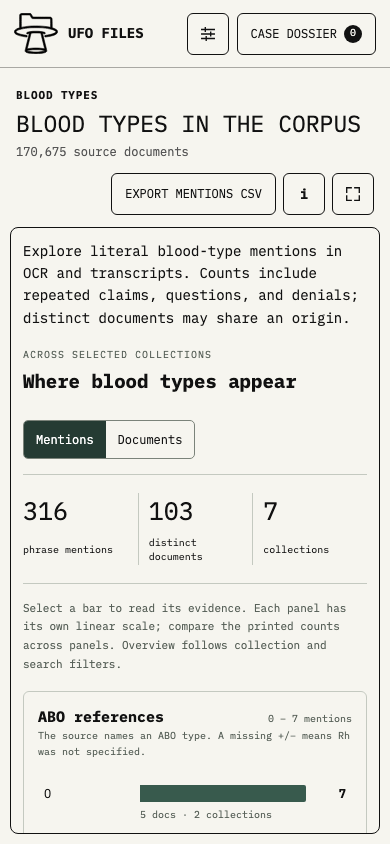
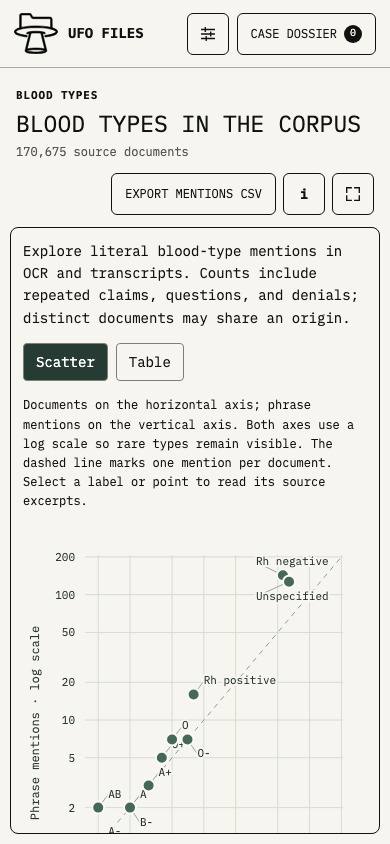
Replace blood type dashboard with scatter and table only

diff --git a/app.js b/app.js
@@ -351,7 +351,7 @@ const DEFAULT = {
   speciesLayout: "lineup", speciesY: "physicalHeight", speciesSize: "documentCount", speciesSpacing: 0, speciesCategory: "all", speciesSearch: "",
   coverageRows: "collection", coverageColumns: "category", coverageMetric: "documentCount", coverageCompare: false,
   coverageACollection: "all", coverageAFrom: "", coverageATo: "", coverageBCollection: "all", coverageBFrom: "", coverageBTo: "",
-  bloodType: "all", bloodSearch: "", bloodMetric: "mentions",
+  bloodType: "all", bloodSearch: "", bloodView: "scatter",
   programStatus: "all", programKind: "all", programSearch: "",
   labelSize: 12, zoom: 1, moonTransitSeconds: 5, solarScale: "local", solarCase: "hill_fish", title: "Mentions by Documents", titleMode: "auto"
 };
@@ -368,7 +368,7 @@ const VIEW_DEFAULTS = {
   signals: { allSources: true, sources: [], labels: "top", labelSize: 12 },
   bars: { aggregation: "source", y: "words", color: "intensity" },
   timeline: { timelineRole: "event", timelineGrouping: true, timelineGroupPeriod: "month", timelineCorrelativeMarkers: true, timelineHistoricalCandidates: false, x: "startDate", y: "mentionRank", size: "eventCount", color: "eventType", categories: ["date"], labels: "top", limit: 500, relationshipLayer: "always", timelineRelevanceCutoff: DEFAULT_TIMELINE_RELEVANCE_CUTOFF, timelineRecencyYear: DEFAULT_TIMELINE_RECENCY_YEAR },
-  blood: { bloodType: "all", bloodSearch: "", bloodMetric: "mentions" },
+  blood: { bloodType: "all", bloodSearch: "", bloodView: "scatter" },
   programs: { programStatus: "all", programKind: "all", programSearch: "", labelSize: 12 },
   matrix: { matrixColumns: "category", matrixNormalize: "rowShare", color: "intensity" },
   coverage: { coverageRows: "collection", coverageColumns: "category", coverageMetric: "documentCount", coverageCompare: false, coverageACollection: "all", coverageAFrom: "", coverageATo: "", coverageBCollection: "all", coverageBFrom: "", coverageBTo: "", allSources: true, sources: [] },
@@ -4342,40 +4342,52 @@ function bloodMentionGroups(observations) {
   return [...groups.values()].sort((a, b) => b.mentions - a.mentions || a.type.localeCompare(b.type));
 }
 
-function bloodVisualData(observations, metric = "mentions") {
-  const value = group => metric === "documents" ? group.documents.size : group.mentions;
-  const groups = bloodMentionGroups(observations).sort((a, b) => value(b) - value(a) || a.type.localeCompare(b.type));
-  const sources = [...new Set(observations.map(item => item.source))].sort();
-  const bySource = new Map(sources.map(source => [source, bloodMentionGroups(observations.filter(item => item.source === source))]));
-  const cells = groups.flatMap(group => sources.map(source => {
-    const entry = bySource.get(source).find(item => item.type === group.type);
-    return { type: group.type, source, value: entry ? value(entry) : 0 };
-  }));
-  return { groups, sources, cells, value };
+function bloodOverviewHTML(observations, config) {
+  const groups = bloodMentionGroups(observations);
+  const table = config.bloodView === "table";
+  return `<section aria-label="Blood type overview"><div class="blood-view-switch" role="group" aria-label="Blood type view">${["scatter", "table"].map(view => `<button type="button" data-blood-view="${view}" aria-pressed="${(table ? "table" : "scatter") === view}">${view === "scatter" ? "Scatter" : "Table"}</button>`).join("")}</div>
+    ${table ? `<div class="blood-overview"><table><thead><tr><th scope="col">Type / Rh</th><th scope="col">Mentions</th><th scope="col">Documents</th><th scope="col">Collections</th></tr></thead><tbody>${groups.map(group => `<tr><th scope="row"><button type="button" data-blood-pick="${escapeHTML(group.type)}">${escapeHTML(group.type)}</button></th><td>${formatNumber(group.mentions)}</td><td>${formatNumber(group.documents.size)}</td><td>${formatNumber(group.sources.size)}</td></tr>`).join("")}</tbody></table></div>` : `<p class="blood-chart-help">Documents on the horizontal axis; phrase mentions on the vertical axis. Both axes use a log scale so rare types remain visible. The dashed line marks one mention per document. Select a label or point to read its source excerpts.</p><svg class="blood-scatter" role="group" aria-label="Blood type mentions versus distinct documents"></svg>`}
+  </section>`;
 }
 
-function bloodOverviewHTML(observations, config) {
-  const metric = config.bloodMetric === "documents" ? "documents" : "mentions";
-  const { groups, sources, cells, value } = bloodVisualData(observations, metric);
-  const panels = [
-    { title: "ABO references", note: "The source names an ABO type. A missing +/− means Rh was not specified.", groups: groups.filter(group => !group.type.startsWith("Rh ") && group.type !== "Unspecified"), style: "abo" },
-    { title: "Rh-only references", note: "The source names an Rh factor without an ABO type.", groups: groups.filter(group => group.type.startsWith("Rh ")), style: "rh" },
-    { title: "Unspecified references", note: "Blood type is mentioned without a specific value in the matched phrase.", groups: groups.filter(group => group.type === "Unspecified"), style: "unknown" }
-  ];
-  const maximum = Math.max(1, ...cells.map(cell => cell.value));
-  return `<section class="blood-landscape" aria-label="Blood type patterns across the corpus">
-    <div class="blood-visual-header"><div><span class="blood-eyebrow">Across selected collections</span><h2>Where blood types appear</h2></div><div class="blood-metric" role="group" aria-label="Chart measure">${["mentions", "documents"].map(key => `<button type="button" data-blood-metric="${key}" aria-pressed="${metric === key}">${key === "mentions" ? "Mentions" : "Documents"}</button>`).join("")}</div></div>
-    <div class="blood-totals"><div><strong>${formatNumber(observations.length)}</strong><span>phrase mentions</span></div><div><strong>${formatNumber(new Set(observations.map(item => item.documentId)).size)}</strong><span>distinct documents</span></div><div><strong>${formatNumber(sources.length)}</strong><span>collections</span></div></div>
-    <p class="blood-chart-help">Select a bar to read its evidence. Each panel has its own linear scale; compare the printed counts across panels. Overview follows collection and search filters.</p>
-    <div class="blood-panels">${panels.map(panel => {
-      const max = Math.max(1, ...panel.groups.map(value));
-      return `<section class="blood-panel blood-panel-${panel.style}" aria-label="${panel.title}"><header><h3>${panel.title}</h3><span>0 – ${formatNumber(max)} ${metric}</span></header><p>${panel.note}</p><div class="blood-bars">${panel.groups.length ? panel.groups.map(group => `<button class="blood-bar" type="button" data-blood-pick="${escapeHTML(group.type)}" aria-pressed="${config.bloodType === group.type}" aria-label="${escapeHTML(group.type)}: ${value(group)} ${metric}. Show source excerpts."><span class="blood-bar-name">${escapeHTML(group.type)}</span><span class="blood-bar-track"><span style="width:${value(group) / max * 100}%"></span></span><strong>${formatNumber(value(group))}</strong><small>${formatNumber(group.documents.size)} docs · ${formatNumber(group.sources.size)} collections</small></button>`).join("") : "<p>No matching references.</p>"}</div></section>`;
-    }).join("")}</div>
-    <section class="blood-collection-map" aria-labelledby="bloodCollectionTitle"><div class="blood-visual-header"><div><span class="blood-eyebrow">Distribution by collection</span><h3 id="bloodCollectionTitle">Concentrated in one source, or spread across several?</h3></div><span class="blood-shade-key">Light → dark: 1 – ${formatNumber(maximum)} ${metric}</span></div>
-    <p class="blood-chart-help">Select a square to open that type’s excerpts from one collection. Counts measure published text, not source independence. A dash means no extracted matches.</p>
-    <div class="blood-map-scroll" role="region" aria-label="Blood types by collection; scroll horizontally for more collections" tabindex="0"><div class="blood-map" style="--blood-columns:${sources.length}"><span class="blood-map-corner">Type / Rh</span>${sources.map(source => `<span class="blood-map-source">${escapeHTML(source.replaceAll("-", " "))}</span>`).join("")}${groups.map(group => `<strong class="blood-map-label">${escapeHTML(group.type)}</strong>${cells.filter(cell => cell.type === group.type).map(cell => `<button type="button" class="blood-map-cell" ${cell.value ? `data-blood-pick="${escapeHTML(cell.type)}" data-blood-source="${escapeHTML(cell.source)}"` : "disabled"} aria-label="${escapeHTML(cell.type)}, ${escapeHTML(cell.source)}: ${cell.value} ${metric}" title="${escapeHTML(cell.source)} · ${escapeHTML(cell.type)} · ${cell.value} ${metric}" style="--blood-intensity:${cell.value ? 10 + cell.value / maximum * 80 : 0}%;color:${cell.value / maximum > .5 ? "#fff" : "#202720"}">${cell.value ? formatNumber(cell.value) : "—"}</button>`).join("")}`).join("")}</div></div></section>
-    <details class="blood-count-details"><summary>View exact counts</summary><div class="blood-overview"><table><thead><tr><th scope="col">Type / Rh</th><th scope="col">Mentions</th><th scope="col">Documents</th><th scope="col">Collections</th></tr></thead><tbody>${groups.map(group => `<tr><th scope="row">${escapeHTML(group.type)}</th><td>${formatNumber(group.mentions)}</td><td>${formatNumber(group.documents.size)}</td><td>${formatNumber(group.sources.size)}</td></tr>`).join("")}</tbody></table></div></details>
-  </section>`;
+function drawBloodScatter(svg, observations, config) {
+  const groups = bloodMentionGroups(observations);
+  const width = Math.max(280, svg.parentElement.clientWidth), height = Math.min(560, Math.max(400, width * .55));
+  const margin = { left: 62, right: 24, top: 32, bottom: 62 };
+  const maximum = Math.max(2, ...groups.map(group => group.mentions)) * 1.45;
+  const logMin = Math.log10(.75), logMax = Math.log10(maximum);
+  const x = value => margin.left + (Math.log10(value) - logMin) / (logMax - logMin) * (width - margin.left - margin.right);
+  const y = value => height - margin.bottom - (Math.log10(value) - logMin) / (logMax - logMin) * (height - margin.top - margin.bottom);
+  svg.setAttribute("viewBox", `0 0 ${width} ${height}`);
+  svg.style.height = `${height}px`;
+  const ticks = [];
+  for (let power = 0; 10 ** power <= maximum; power++) for (const multiplier of [1, 2, 5]) if (multiplier * 10 ** power <= maximum) ticks.push(multiplier * 10 ** power);
+  ticks.forEach(value => {
+    svg.append(el("line", { x1: x(value), x2: x(value), y1: margin.top, y2: height - margin.bottom, class: "blood-grid" }));
+    svg.append(el("line", { x1: margin.left, x2: width - margin.right, y1: y(value), y2: y(value), class: "blood-grid" }));
+    svg.append(el("text", { x: x(value), y: height - margin.bottom + 20, "text-anchor": "middle", class: "blood-axis" }, String(value)));
+    svg.append(el("text", { x: margin.left - 10, y: y(value) + 4, "text-anchor": "end", class: "blood-axis" }, String(value)));
+  });
+  svg.append(el("line", { x1: x(1), y1: y(1), x2: x(maximum), y2: y(maximum), class: "blood-diagonal" }));
+  svg.append(el("text", { x: (width + margin.left - margin.right) / 2, y: height - 12, "text-anchor": "middle", class: "blood-axis-title" }, "Distinct documents · log scale"));
+  svg.append(el("text", { x: 16, y: height / 2, transform: `rotate(-90 16 ${height / 2})`, "text-anchor": "middle", class: "blood-axis-title" }, "Phrase mentions · log scale"));
+  const labels = [];
+  groups.slice().sort((a, b) => a.documents.size - b.documents.size || a.mentions - b.mentions).forEach(group => {
+    const px = x(group.documents.size), py = y(group.mentions), textWidth = group.type.length * 7 + 10;
+    let lx = Math.min(width - margin.right - textWidth, px + 10), ly = py - 10;
+    for (let attempt = 0; attempt < 30; attempt++) {
+      if (!labels.some(box => lx < box.x + box.width && lx + textWidth > box.x && ly - 12 < box.y + 5 && ly + 5 > box.y - 12)) break;
+      ly = py + (attempt % 2 ? -1 : 1) * (18 + Math.floor(attempt / 2) * 18);
+    }
+    ly = Math.max(margin.top + 8, Math.min(height - margin.bottom - 8, ly));
+    labels.push({ x: lx, y: ly, width: textWidth });
+    const mark = el("g", { class: "blood-scatter-point", role: "button", tabindex: "0", "data-blood-pick": group.type, "aria-pressed": String(config.bloodType === group.type), "aria-label": `${group.type}: ${group.documents.size} documents, ${group.mentions} mentions, ${group.sources.size} collections. Show source excerpts.` });
+    mark.append(el("title", {}, `${group.type} · ${group.documents.size} documents · ${group.mentions} mentions · ${group.sources.size} collections`));
+    mark.append(el("line", { x1: px, y1: py, x2: lx, y2: ly - 3, class: "blood-leader" }));
+    mark.append(el("circle", { cx: px, cy: py, r: 6 }));
+    mark.append(el("text", { x: lx, y: ly }, group.type));
+    svg.append(mark);
+  });
 }
 
 function renderBloodTypes() {
@@ -4399,20 +4411,25 @@ function renderBloodTypes() {
     ${overviewItems.length ? bloodOverviewHTML(overviewItems, state.config) : ""}
     ${items.length ? "" : `<p role="status">${available ? "No blood type mentions match these filters." : "Blood type extraction is unavailable in this catalog. Rebuild the catalog to populate this view."}</p>`}
     <div class="blood-evidence-heading" role="region" aria-label="Selected source excerpts" tabindex="-1"><h2>Source excerpts${state.config.bloodType === "all" ? "" : ` · ${escapeHTML(state.config.bloodType)}`}</h2><button class="button" data-blood-reset type="button">Reset filters</button></div><p data-blood-page-count></p><div data-blood-evidence>${cards(items.slice(0, shown))}</div><button class="button" type="button" data-blood-more ${items.length <= shown ? "hidden" : ""}>Show more excerpts</button></div>`;
-  const selectEvidence = (type, source = null) => {
-    state.config.bloodType = state.config.bloodType === type && !source ? "all" : type;
-    if (source) { state.config.sources = [source]; state.config.allSources = false; }
+  const selectEvidence = type => {
+    state.config.bloodType = state.config.bloodType === type ? "all" : type;
     renderControls(); commitConfig(false);
     const heading = $("#tableView").querySelector(".blood-evidence-heading");
     heading.scrollIntoView({ block: "start" });
     heading.focus({ preventScroll: true });
   };
-  queue.querySelectorAll("[data-blood-pick]").forEach(button => button.addEventListener("click", () => selectEvidence(button.dataset.bloodPick, button.dataset.bloodSource)));
-  queue.querySelectorAll("[data-blood-metric]").forEach(button => button.addEventListener("click", () => {
-    const scrollTop = queue.scrollTop;
-    state.config.bloodMetric = button.dataset.bloodMetric;
-    persistHash(); renderGraph(); queue.scrollTop = scrollTop;
-    queue.querySelector(`[data-blood-metric="${state.config.bloodMetric}"]`).focus({ preventScroll: true });
+  const scatter = queue.querySelector(".blood-scatter");
+  if (scatter) drawBloodScatter(scatter, overviewItems, state.config);
+  queue.querySelectorAll("[data-blood-pick]").forEach(button => {
+    button.addEventListener("click", () => selectEvidence(button.dataset.bloodPick));
+    if (button.tagName.toLowerCase() === "g") button.addEventListener("keydown", event => {
+      if (["Enter", " "].includes(event.key)) { event.preventDefault(); selectEvidence(button.dataset.bloodPick); }
+    });
+  });
+  queue.querySelectorAll("[data-blood-view]").forEach(button => button.addEventListener("click", () => {
+    state.config.bloodView = button.dataset.bloodView;
+    persistHash(); renderGraph();
+    queue.querySelector(`[data-blood-view="${state.config.bloodView}"]`).focus({ preventScroll: true });
   }));
   queue.querySelector("[data-blood-reset]").addEventListener("click", () => {
     Object.assign(state.config, { bloodType: "all", bloodSearch: "", sources: [], allSources: true });

diff --git a/styles.css b/styles.css
@@ -715,47 +715,22 @@ body.graph-fullscreen #chart { min-height: 0; }
 }
 .blood-view { padding: 20px; max-width: 1100px; margin: auto; }
 .blood-method { line-height: 1.6; }
-.blood-visual-header { display: flex; align-items: center; justify-content: space-between; flex-wrap: wrap; gap: 12px; }
-.blood-visual-header h2 { margin: 5px 0 12px; font-size: 22px; }
-.blood-visual-header h3 { margin: 6px 0; font-size: 16px; }
-.blood-eyebrow { text-transform: uppercase; font-size: 10px; letter-spacing: .1em; color: #586159; }
-.blood-metric { display: flex; border: 1px solid #7b837a; border-radius: 5px; overflow: hidden; }
-.blood-metric button { border: 0; padding: 10px 12px; background: transparent; font: inherit; font-size: 12px; cursor: pointer; }
-.blood-metric button[aria-pressed="true"] { color: #fff; background: #253b33; }
-.blood-totals { display: grid; grid-template-columns: repeat(3, 1fr); margin: 15px 0; padding: 18px 0; border-block: 1px solid #c4c9c0; }
-.blood-totals div { display: grid; gap: 6px; padding-left: 16px; border-left: 1px solid #c4c9c0; }
-.blood-totals div:first-child { border: 0; padding-left: 0; }
-.blood-totals strong { font-size: 30px; font-weight: 500; }
-.blood-totals span { font-size: 11px; }
-.blood-chart-help { color: #586159; font-size: 11px; line-height: 1.7; }
-.blood-panels { display: grid; grid-template-columns: 1fr 1fr; gap: 16px; margin: 18px 0 28px; }
-.blood-panel { padding: 18px; border: 1px solid #c4c9c0; border-radius: 6px; min-width: 0; }
-.blood-panel-abo { grid-row: span 2; }
-.blood-panel header { display: flex; align-items: baseline; justify-content: space-between; gap: 10px; flex-wrap: wrap; }
-.blood-panel h3 { margin: 0; font-size: 15px; }
-.blood-panel header > span, .blood-panel > p { font-size: 10px; color: #586159; line-height: 1.6; }
-.blood-bars { margin-top: 15px; }
-.blood-bar { display: grid; width: 100%; grid-template-columns: 88px minmax(20px, 1fr) 32px; align-items: center; gap: 5px 8px; border: 0; border-radius: 3px; padding: 10px 6px; margin: 3px 0; font: inherit; font-size: 12px; text-align: left; background: transparent; cursor: pointer; }
-.blood-bar:hover, .blood-bar[aria-pressed="true"] { background: #e3e9df; }
-.blood-bar[aria-pressed="true"] { box-shadow: inset 3px 0 #253b33; }
-.blood-bar strong { text-align: right; }
-.blood-bar small { grid-column: 2 / -1; color: #586159; font-size: 10px; }
-.blood-bar-track { height: 17px; background: repeating-linear-gradient(90deg, #d9ded4 0, #d9ded4 1px, transparent 1px, transparent 25%); }
-.blood-bar-track > span { display: block; height: 100%; background: #385a4d; border-radius: 0 2px 2px 0; }
-.blood-panel-rh .blood-bar-track > span { background: #80564f; }
-.blood-panel-unknown .blood-bar-track > span { background: repeating-linear-gradient(135deg, #7c8176 0, #7c8176 3px, #e0e3da 3px, #e0e3da 6px); }
-.blood-shade-key { font-size: 10px; color: #586159; }
-.blood-shade-key::before { content: ""; display: inline-block; vertical-align: middle; width: 64px; height: 10px; background: linear-gradient(90deg, #f4f5ef, #263e32); margin-right: 8px; }
-.blood-map-scroll { overflow-x: auto; padding: 8px 0; }
-.blood-map { display: grid; grid-template-columns: 90px repeat(var(--blood-columns), minmax(86px, 1fr)); gap: 6px; min-width: calc(90px + var(--blood-columns) * 92px); }
-.blood-map-corner, .blood-map-source { font-size: 10px; line-height: 1.5; padding: 0 3px 10px; align-self: end; overflow-wrap: anywhere; }
-.blood-map-label { font-size: 11px; align-self: center; }
-.blood-map-cell { min-height: 30px; border: 1px solid #d3d9ce; border-radius: 3px; background: color-mix(in srgb, #263e32 var(--blood-intensity), #f4f5ef); font: inherit; font-size: 11px; cursor: pointer; }
-.blood-map-cell:disabled { cursor: default; color: #8b9486 !important; }
-.blood-map-cell:not(:disabled):hover { outline: 2px solid #253b33; outline-offset: 1px; }
-.blood-bar:focus-visible, .blood-map-cell:focus-visible, .blood-metric button:focus-visible { outline: 2px solid #253b33; outline-offset: 3px; }
-.blood-count-details { margin: 22px 0; padding-block: 14px; border-block: 1px solid #c4c9c0; }
-.blood-count-details summary { cursor: pointer; font-size: 12px; }
+.blood-view-switch { display: flex; gap: 8px; margin-bottom: 14px; }
+.blood-view-switch button, .blood-overview button { font: inherit; padding: 8px 12px; border: 1px solid #788177; border-radius: 4px; background: transparent; cursor: pointer; }
+.blood-view-switch button[aria-pressed="true"] { background: #253b33; color: white; }
+.blood-chart-help { font-size: 12px; line-height: 1.6; }
+.blood-scatter { display: block; width: 100%; overflow: visible; }
+.blood-grid { stroke: #d7dbd2; stroke-width: 1; }
+.blood-diagonal { stroke: #929b8e; stroke-dasharray: 5 5; }
+.blood-axis, .blood-scatter-point text { font-size: 11px; fill: #28352c; }
+.blood-axis-title { font-size: 12px; fill: #28352c; }
+.blood-scatter-point { cursor: pointer; }
+.blood-scatter-point circle { fill: #466858; stroke: #fafaf5; stroke-width: 2; }
+.blood-scatter-point text { paint-order: stroke; stroke: #f7f6f0; stroke-width: 4px; stroke-linejoin: round; }
+.blood-leader { stroke: #9aa697; stroke-width: 1; }
+.blood-scatter-point:hover circle, .blood-scatter-point:focus circle, .blood-scatter-point[aria-pressed="true"] circle { fill: #111; stroke: #111; }
+.blood-scatter-point:focus { outline: none; }
+.blood-scatter-point:focus text { text-decoration: underline; }
 .blood-evidence-heading { display: flex; align-items: center; justify-content: space-between; flex-wrap: wrap; gap: 10px; margin-top: 28px; }
 .blood-evidence-heading h2 { font-size: 18px; }
 .blood-overview { overflow-x: auto; margin: 20px 0 28px; }
@@ -769,12 +744,5 @@ body.graph-fullscreen #chart { min-height: 0; }
 .blood-evidence > small, .blood-evidence > a { display: block; margin-top: 10px; }
 @media (max-width: 600px) {
   .blood-view { padding: 12px; }
-  .blood-panels { grid-template-columns: 1fr; }
-  .blood-panel-abo { grid-row: auto; }
-  .blood-panel { padding: 14px; }
-  .blood-totals strong { font-size: 25px; }
-  .blood-totals span { font-size: 10px; }
-  .blood-totals div { padding-left: 10px; }
-  .blood-visual-header h2 { font-size: 19px; }
   .blood-overview th, .blood-overview td { padding: 10px 7px; font-size: 12px; }
 }

diff --git a/tests/test_app.js b/tests/test_app.js
@@ -4923,13 +4923,6 @@ test("Blood type filters and aggregates keep repeats distinct from documents", (
   assert.equal(groups[0].mentions, 2);
   assert.equal(groups[0].documents.size, 1);
   assert.equal(groups[0].sources.size, 1);
-  const mentionMap = context.bloodVisualData(rows, "mentions");
-  const documentMap = context.bloodVisualData(rows, "documents");
-  assert.equal(mentionMap.cells.find(cell => cell.type === "O-" && cell.source === "A").value, 2);
-  assert.equal(documentMap.cells.find(cell => cell.type === "O-" && cell.source === "A").value, 1);
-  assert.equal(documentMap.cells.find(cell => cell.type === "O-" && cell.source === "B").value, 0);
-  assert.equal(mentionMap.cells.reduce((sum, cell) => sum + cell.value, 0), rows.length);
-
   assert.equal(context.filteredBloodMentions(catalog, { ...config, bloodType: "Rh negative" }).length, 1);
   assert.equal(context.filteredBloodMentions(catalog, { ...config, bloodSearch: "interview" }).length, 2);
   assert.equal(context.filteredBloodMentions(catalog, { ...config, allSources: false, sources: ["B"] }).length, 1);

diff --git a/README.md b/README.md
@@ -202,7 +202,7 @@ This view summarizes how corpus sources and the externally documented baseline d
 
 ## Blood types in the corpus
 
-Choose **Blood types** to explore literal ABO and Rh references across completed OCR and transcripts. Interactive bars separate ABO, Rh-only, and unspecified references; each panel labels its own linear scale. Switch between phrase mentions and distinct documents, select a bar to read its evidence, or select a collection heatmap cell to narrow the excerpts to one source. Exact counts remain available in a collapsible table. The view separates raw phrase occurrences, distinct documents, and collections; these are corpus counts, not population statistics or independent corroboration. Filter by type, collection, or excerpt/title text, inspect the original source file and segment, or export every matching mention as CSV. Excerpts load 50 at a time without truncating counts or exports. Saved view links preserve the filters.
+Choose **Blood types** to explore ABO and Rh references in a scatter chart or table. The scatter plots distinct documents against phrase mentions, with logarithmic axes to keep rare types visible. Labels preserve exact coordinates even when several types share a point. Select a point or table row to inspect the source excerpts. Collection, type, and text filters persist in shared links; CSV export includes all matching mentions. Counts describe corpus text, not population prevalence or independent corroboration.
 
 The catalog builder extracts explicit English blood type/group phrases and Rh-positive/negative references. ABO letters require a blood cue, and polarity-only references require nearby blood/Rh context. Generic blood-type references stay unspecified, and Rh-only references never acquire an inferred ABO type. Questions, denials, repeated statements, and speculative claims remain visible in their source context. English derivatives are included through the existing language policy; untranslated text, OCR corruption, and references split across segments can be missed. Extraction does not establish anyone's blood type or verify biological claims.
 
